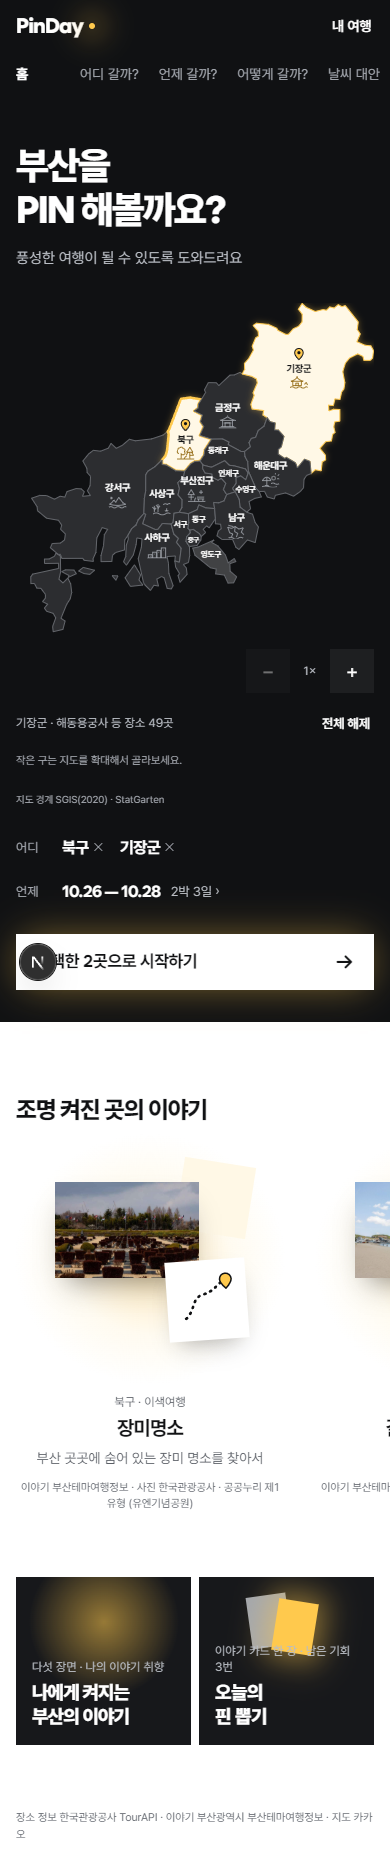
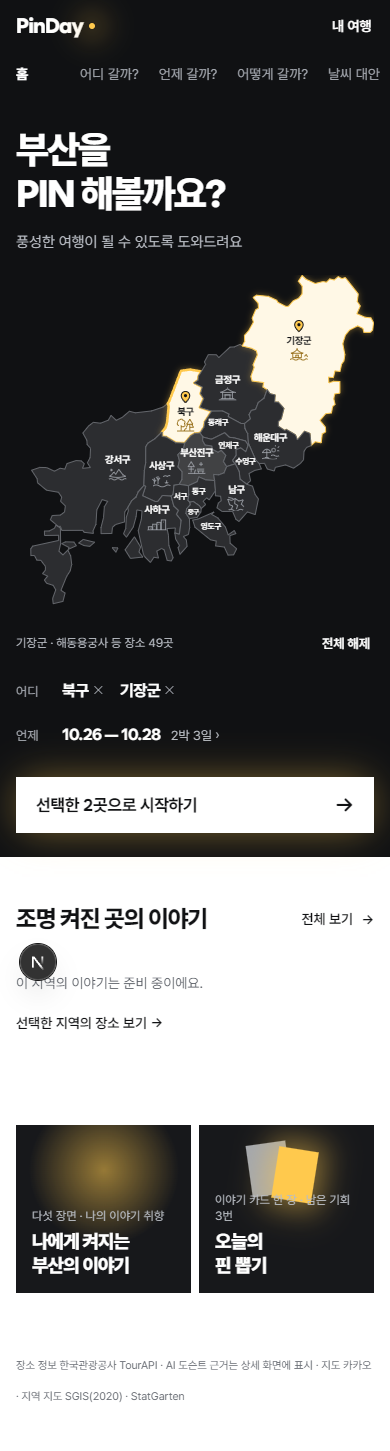
feat(home): 확대 제거와 홈 압축 및 도슨트 이야기 연결

diff --git a/src/app/_home/BusanMap.tsx b/src/app/_home/BusanMap.tsx
@@ -12,15 +12,13 @@ type Props = { selected: string[]; counts: Record<string, number>; onToggle: (re
 export function BusanMap({ selected, counts, onToggle, onClear }: Props) {
   const [light, setLight] = useState<{ x: number; y: number } | null>(null);
   const [hovered, setHovered] = useState<MapRegion | null>(null);
-  const [zoom, setZoom] = useState(1);
   const [pinDrops, setPinDrops] = useState<Record<string, number>>({});
   const pinSequence = useRef(0);
   const lightId = useId();
-  const viewport = useRef<HTMLDivElement>(null);
   const follow = (e: PointerEvent<HTMLDivElement>) => {
     const box = e.currentTarget.getBoundingClientRect();
-    setLight({ x: (e.clientX - box.left + e.currentTarget.scrollLeft) / (box.width * zoom) * MAP_WIDTH,
-      y: (e.clientY - box.top + e.currentTarget.scrollTop) / (box.height * zoom) * MAP_HEIGHT });
+    setLight({ x: (e.clientX - box.left) / box.width * MAP_WIDTH,
+      y: (e.clientY - box.top) / box.height * MAP_HEIGHT });
   };
   const toggle = (region: MapRegion) => {
     if ((counts[region.region] ?? 0) === 0) return;
@@ -31,27 +29,16 @@ export function BusanMap({ selected, counts, onToggle, onClear }: Props) {
     onToggle(region.region);
     setHovered(region);
   };
-  const changeZoom = (next: number) => {
-    const box = viewport.current;
-    if (!box) return;
-    const x = (box.scrollLeft + box.clientWidth / 2) / zoom;
-    const y = (box.scrollTop + box.clientHeight / 2) / zoom;
-    setZoom(next);
-    requestAnimationFrame(() => {
-      box.scrollLeft = x * next - box.clientWidth / 2;
-      box.scrollTop = y * next - box.clientHeight / 2;
-    });
-  };
   const status = hovered
     ? `${hovered.name} · ${hovered.spot} 등 장소 ${counts[hovered.region] ?? 0}곳`
     : selected.length > 0 ? `조명 켜진 곳 ${selected.length}` : "구를 눌러 조명을 켜보세요";
 
   return (
     <div role="group" aria-label="부산 구·군 지도. 여러 곳을 고를 수 있어요" className="flex min-w-0 flex-col gap-2">
-      <div ref={viewport} onPointerMove={follow} onPointerDown={follow}
-        onPointerLeave={() => { setLight(null); setHovered(null); }} className="pd-map" data-zoom={zoom}
+      <div onPointerMove={follow} onPointerDown={follow}
+        onPointerLeave={() => { setLight(null); setHovered(null); }} className="pd-map"
         >
-        <svg role="group" aria-label="지도에서 구·군 선택" className="pd-map-svg" viewBox={`0 0 ${MAP_WIDTH} ${MAP_HEIGHT}`} style={{ width: `${zoom * 100}%`, height: `${zoom * 100}%` }}>
+        <svg role="group" aria-label="지도에서 구·군 선택" className="pd-map-svg" viewBox={`0 0 ${MAP_WIDTH} ${MAP_HEIGHT}`}>
           <defs>
             <radialGradient id={lightId} gradientUnits="userSpaceOnUse" cx={light?.x ?? 0} cy={light?.y ?? 0} r="180">
               <stop offset="0%" stopColor="var(--color-light)" stopOpacity=".72" />
@@ -96,17 +83,10 @@ export function BusanMap({ selected, counts, onToggle, onClear }: Props) {
           })}
         </svg>
       </div>
-      <div className="flex items-center justify-end gap-2">
-        <button type="button" onClick={() => changeZoom(Math.max(1, zoom - 1))} disabled={zoom === 1} aria-label="지도 축소" className="flex min-h-tap min-w-tap items-center justify-center bg-room-cell text-xl text-on-room disabled:opacity-40">−</button>
-        <span aria-live="polite" className="w-6 text-center text-xs text-on-room-muted">{zoom}×</span>
-        <button type="button" onClick={() => changeZoom(Math.min(4, zoom + 1))} disabled={zoom === 4} aria-label="지도 확대" className="flex min-h-tap min-w-tap items-center justify-center bg-room-cell text-xl text-on-room disabled:opacity-40">+</button>
-      </div>
       <div className="flex min-h-tap items-center justify-between gap-3">
         <p aria-live="polite" className="text-xs text-on-room-muted lg:text-[13px]">{status}</p>
         {selected.length > 0 && <button type="button" onClick={onClear} className="flex min-h-tap shrink-0 items-center px-1 text-[13px] font-semibold text-on-room">전체 해제</button>}
       </div>
-      <p className="text-[11px] text-on-room-subtle">작은 구는 지도를 확대해서 골라보세요.</p>
-      <a href="https://github.com/swcho/korea-maps" target="_blank" rel="noreferrer" className="inline-flex min-h-tap w-fit items-center text-[10px] text-on-room-subtle">지도 경계 SGIS(2020) · StatGarten</a>
     </div>
   );
 }

diff --git a/src/app/_home/HomeView.tsx b/src/app/_home/HomeView.tsx
@@ -39,11 +39,11 @@ export function HomeView({ regionCounts, weekly, storiesByRegion, pinPlaces }: P
   return (
     <main className="flex flex-1 flex-col">
       <div className={`overflow-x-clip transition-colors duration-500 ${selected.length > 0 ? "bg-room-dim" : "bg-room"}`}>
-        <div className="mx-auto max-w-page px-gutter pb-8 lg:box-content lg:px-gutter-wide lg:pb-22">
+        <div className="mx-auto max-w-page px-gutter pb-6 lg:box-content lg:px-gutter-wide lg:pb-10">
           <SiteHeader tone="room" />
           {/* 휴대폰: 첫 문구 → 지도 → 어디·언제 / 데스크톱: 왼쪽 첫 문구·어디·언제, 오른쪽 지도 */}
-          <div className="flex flex-col lg:grid lg:grid-cols-[minmax(0,1fr)_minmax(0,1.35fr)] lg:grid-rows-[auto_1fr] lg:items-start lg:gap-x-16 lg:pt-18">
-            <div className="pt-12 lg:col-start-1 lg:row-start-1 lg:pt-0">
+          <div className="flex flex-col lg:grid lg:grid-cols-[minmax(0,1fr)_minmax(0,1.35fr)] lg:grid-rows-[auto_1fr] lg:items-start lg:gap-x-16 lg:pt-10">
+            <div className="pt-8 lg:col-start-1 lg:row-start-1 lg:pt-0">
               <h1 className="font-display text-[38px] leading-[1.16] font-extrabold tracking-[-0.05em] whitespace-pre-line text-on-room lg:text-[68px] lg:leading-[1.1] lg:tracking-[-0.055em]">
                 {"부산을\nPIN 해볼까요?"}
               </h1>
@@ -51,10 +51,10 @@ export function HomeView({ regionCounts, weekly, storiesByRegion, pinPlaces }: P
                 풍성한 여행이 될 수 있도록 도와드려요
               </p>
             </div>
-            <div className="pt-8 lg:col-start-2 lg:row-span-2 lg:row-start-1 lg:pt-0">
+            <div className="pt-5 lg:col-start-2 lg:row-span-2 lg:row-start-1 lg:pt-0">
               <BusanMap selected={selected} counts={regionCounts} onToggle={toggleRegion} onClear={() => tripActions.setRegions([])} />
             </div>
-            <div className="pt-1 lg:col-start-1 lg:row-start-2 lg:pt-16">
+            <div className="pt-1 lg:col-start-1 lg:row-start-2 lg:pt-10">
               <TripConditions trip={trip} saved={saved} onRemoveRegion={removeRegion} />
             </div>
           </div>
@@ -62,7 +62,7 @@ export function HomeView({ regionCounts, weekly, storiesByRegion, pinPlaces }: P
       </div>
 
       <div className="mx-auto w-full max-w-page lg:box-content lg:px-gutter-wide">
-        <div className="pt-18 lg:pt-28">
+        <div className="pt-10 lg:pt-16">
           <StoryShelf heading={storyHeading} stories={stories} />
         </div>
 
@@ -86,7 +86,8 @@ export function HomeView({ regionCounts, weekly, storiesByRegion, pinPlaces }: P
 
         <footer className="px-gutter pt-16 pb-8 lg:px-0 lg:pt-24 lg:pb-10">
           <p className="text-[11px] leading-relaxed text-ink-subtle lg:text-xs">
-            장소 정보 한국관광공사 TourAPI · 이야기 부산광역시 부산테마여행정보 · 지도 카카오
+            장소 정보 한국관광공사 TourAPI · AI 도슨트 근거는 상세 화면에 표시 · 지도 카카오 · 지역 지도{" "}
+            <a href="https://github.com/swcho/korea-maps" target="_blank" rel="noreferrer" className="inline-flex min-h-tap items-center">SGIS(2020) · StatGarten</a>
           </p>
         </footer>
       </div>

diff --git a/src/app/_home/StoryShelf.tsx b/src/app/_home/StoryShelf.tsx
@@ -1,4 +1,5 @@
 import Image from "next/image";
+import Link from "next/link";
 import type { StoryCard } from "@/lib/server/home";
 import { regionName } from "./regions";
 
@@ -7,27 +8,38 @@ import { regionName } from "./regions";
 export function StoryShelf({ heading, stories }: { heading: string; stories: StoryCard[] }) {
   return (
     <section aria-labelledby="story-heading" className="flex flex-col gap-2 lg:gap-6">
-      <h2 id="story-heading" className="px-gutter font-display text-2xl font-extrabold tracking-[-0.045em] lg:px-0 lg:text-[34px]">
-        {heading}
-      </h2>
+      <div className="flex items-center justify-between gap-3 px-gutter lg:px-0">
+        <h2 id="story-heading" className="font-display text-2xl font-extrabold tracking-[-0.045em] lg:text-[34px]">{heading}</h2>
+        <Link href="/docent" className="inline-flex min-h-tap shrink-0 items-center gap-2 text-sm font-semibold">전체 보기 <span aria-hidden="true">→</span></Link>
+      </div>
+      {stories.length === 0 ? (
+        <div className="px-gutter py-6 lg:px-0">
+          <p className="text-sm text-ink-muted">이 지역의 이야기는 준비 중이에요.</p>
+          <Link href="/explore" className="mt-2 inline-flex min-h-tap items-center text-sm font-semibold">선택한 지역의 장소 보기 →</Link>
+        </div>
+      ) : (
       <ul className="no-scrollbar flex snap-x snap-mandatory overflow-x-auto pb-2 lg:grid lg:grid-cols-[repeat(auto-fill,minmax(300px,1fr))] lg:gap-8 lg:overflow-visible">
         {stories.map((story) => (
           <li key={story.id} className="flex w-75 shrink-0 snap-center flex-col items-center gap-2.5 text-center lg:w-auto">
+            <Link href={story.href} prefetch={false} aria-label={`${story.title} 이야기 읽고 듣기`} data-home-story="" className="group flex w-full flex-col items-center gap-2.5 focus-visible:outline-offset-[-2px]">
             <StoryArt story={story} />
             <div className="flex max-w-85 flex-col items-center gap-1.5 px-5">
               <span className="text-xs text-ink-muted lg:text-[13px]">
                 {regionName(story.region)} · {story.kind}
               </span>
-              <h3 className="font-display text-xl leading-tight font-bold tracking-[-0.04em] lg:text-[22px]">{story.title}</h3>
+              <h3 className="font-display text-xl leading-tight font-bold tracking-[-0.04em] group-hover:underline group-focus-visible:underline lg:text-[22px]">{story.title}</h3>
               <p className="line-clamp-2 text-sm leading-relaxed text-ink-muted lg:text-[15px]">{story.subtitle}</p>
               <p className="mt-1 text-[11px] text-ink-subtle">
-                이야기 부산테마여행정보
+                AI 도슨트
                 {story.photo && ` · ${story.photo.credit} (${story.photo.placeName})`}
               </p>
+              <span className="inline-flex min-h-tap items-center text-sm font-semibold">이야기 읽고 듣기 <span aria-hidden="true" className="ml-2">→</span></span>
             </div>
+            </Link>
           </li>
         ))}
       </ul>
+      )}
     </section>
   );
 }

diff --git a/src/lib/server/home.ts b/src/lib/server/home.ts
@@ -1,7 +1,7 @@
 import "server-only";
 
 import placesData from "../../../data/places/places.json";
-import storiesData from "../../../data/stories/stories.json";
+import { listDocents, type Docent } from "./docent";
 
 export type StoryCard = {
   id: string;
@@ -9,6 +9,7 @@ export type StoryCard = {
   subtitle: string;
   region: string;
   kind: string;
+  href: string;
   /** 연결된 장소의 TourAPI 사진. 없으면 null */
   photo: { url: string; credit: string; placeName: string; noDerivs: boolean } | null;
 };
@@ -22,21 +23,20 @@ const LICENSE_LABEL: Record<string, string> = {
 /** 구를 골랐을 때 보여줄 그 구의 이야기 수 */
 const STORIES_PER_REGION = 4;
 
-type RawStory = (typeof storiesData.stories)[number];
-
-function toCard(story: RawStory): StoryCard {
-  const { photo } = story;
+function toCard(story: Docent): StoryCard {
+  const photo = story.image;
   return {
-    id: story.id,
-    title: story.title,
-    subtitle: story.subtitle,
+    id: story.placeId,
+    title: story.placeName,
+    subtitle: story.draft.summary[0]?.text ?? "",
     region: story.region,
-    kind: story.kind,
+    kind: story.category.split(" > ").at(-1) ?? story.category,
+    href: `/docent/${story.placeId}`,
     photo: photo
       ? {
           url: photo.url,
           credit: ["사진 한국관광공사", LICENSE_LABEL[photo.license]].filter(Boolean).join(" · "),
-          placeName: photo.placeName,
+          placeName: story.placeName,
           noDerivs: photo.license === "Type3",
         }
       : null,
@@ -48,15 +48,20 @@ export function homeData() {
   const regionCounts: Record<string, number> = {};
   for (const place of placesData) regionCounts[place.region] = (regionCounts[place.region] ?? 0) + 1;
 
-  const byId = new Map(storiesData.stories.map((story) => [story.id, story]));
-  const weekly = storiesData.weekly.flatMap((id) => {
-    const story = byId.get(id);
-    return story ? [toCard(story)] : [];
-  });
+  // 카드와 열리는 해설이 같은 장소가 되도록 공개 승인된 도슨트만 쓴다.
+  const stories = listDocents().map(toCard);
+  const weekly: StoryCard[] = [];
+  const usedRegions = new Set<string>();
+  for (const story of stories) {
+    if (weekly.length === 4) break;
+    if (!story.photo || usedRegions.has(story.region)) continue;
+    weekly.push(story);
+    usedRegions.add(story.region);
+  }
 
   // 구마다 사진 있는 이야기를 먼저, 그다음 원본 순서
   const storiesByRegion: Record<string, StoryCard[]> = {};
-  for (const story of storiesData.stories) (storiesByRegion[story.region] ??= []).push(toCard(story));
+  for (const story of stories) (storiesByRegion[story.region] ??= []).push(story);
   for (const region of Object.keys(storiesByRegion)) {
     const list = storiesByRegion[region];
     storiesByRegion[region] = [...list.filter((s) => s.photo), ...list.filter((s) => !s.photo)].slice(0, STORIES_PER_REGION);

diff --git a/src/lib/server/home.test.ts b/src/lib/server/home.test.ts
@@ -1,6 +1,6 @@
 import { describe, expect, it, vi } from "vitest";
 import places from "../../../data/places/places.json";
-import rules from "../../../data/docent/evidence-rules.json";
+import { readdirSync, readFileSync } from "node:fs";
 
 vi.mock("server-only", () => ({}));
 
@@ -30,9 +30,13 @@ describe("홈 데이터", () => {
     }
   });
 
-  it("격리된 이야기는 나오지 않는다", () => {
-    const shown = [...data.weekly, ...Object.values(data.storiesByRegion).flat()].map((s) => s.id);
-    for (const q of rules.quarantines) expect(shown).not.toContain(q.sourceId);
+  it("홈 카드는 공개 승인된 해설만 쓰고 같은 장소의 도슨트로 연결된다", () => {
+    const approved = new Set(readdirSync("data/docent/drafts").map(file => JSON.parse(readFileSync(`data/docent/drafts/${file}`, "utf8"))).filter(d => d.publishable === true && d.humanReview?.status === "approved" && !d.checks?.issues?.length).map(d => d.placeId));
+    for (const story of [...data.weekly, ...Object.values(data.storiesByRegion).flat()]) {
+      expect(approved.has(story.id)).toBe(true);
+      expect(story.href).toBe(`/docent/${story.id}`);
+      expect(story.subtitle).not.toBe("");
+    }
   });
 
   it("사진에는 출처와 공공누리 유형이 붙고, 3유형은 변경금지로 표시된다", () => {

diff --git a/src/app/_home/busanMap.css b/src/app/_home/busanMap.css
@@ -1,15 +1,12 @@
 .pd-map {
   position: relative;
   width: 100%;
-  max-width: 40rem;
+  max-width: 32rem;
   aspect-ratio: 800 / 757;
   margin-inline: auto;
-  overflow: auto;
-  overscroll-behavior: contain;
-  scrollbar-width: thin;
-  scrollbar-color: var(--color-on-room-subtle) var(--color-room);
+  overflow: visible;
 }
-.pd-map-svg { display: block; max-width: none; }
+.pd-map-svg { display: block; width: 100%; height: 100%; }
 .pd-map-region {
   fill: color-mix(in srgb, var(--color-on-room) 9%, var(--color-room));
   stroke: color-mix(in srgb, var(--color-on-room-subtle) 55%, var(--color-room));

diff --git a/docs/HANDOFF.md b/docs/HANDOFF.md
@@ -1,16 +1,19 @@
 # HANDOFF — 지금 상태
 
-## 홈 실제 경계 지도·핀 낙하·노란 조명 (2026-10-25, 최신)
+## 홈 높이 축소·이야기 카드 도슨트 연결 (2026-10-25, 최신)
 - 현재 브랜치 **`feat/home-map-illustrations`**, 기준 `origin/main` = `bd455d3`(배포 인계 문서 병합 이후). 사용자가 홈의 남은 명소 그림 완성과 지도 일러스트 수정을 요청했다.
 - **사용자 최종 방향: 첨부 참고처럼 부산의 실제 해안선·구·군 경계를 살린 지도.** 임의의 다각형으로 만든 퍼즐형 윤곽은 사용자가 거부했다. 작은 구를 키우려고 윤곽·상대 크기를 변형하지 않는다. 이전 블록형 지도 결정보다 이 지시가 우선한다.
 - `swcho/korea-maps`의 SGIS **2020년** 부산 경계 SVG에서 16개 path를 그대로 추출해 사용했다. 바다·섬·구별 크기 유지. 출처·고정 커밋·MIT 원문은 `data/maps/README.md`, `data/maps/LICENSE`, 경계는 `busan-boundaries.json`. 첨부 상업 지도 이미지는 복사하지 않았다.
 - 명소 상징 선화는 16개 준비됐지만, 후속 사용자 지시로 작은 7개 구는 **확대해도 아이콘을 빼고 이름만** 남겼다. 화면에는 넓은 9개 구의 그림만 표시한다. 실제 건축물의 정밀 묘사가 아닌 상징 선화다.
-- 후속 사용자 지시로 **이름 선택 드롭다운 제거**. 실제 SVG 경계에서 터치/클릭·Tab/Enter/Space로 직접 선택/해제한다. 화면 읽기에 구 이름·장소 수·선택 상태를 제공한다. 작은 구는 1~4배 확대·스크롤 이동으로 보완하며 원래 경계 자체가 44px이라고 주장하지 않는다. 확대/축소·전체 해제·출처 조작은 44px 이상이다.
+- 후속 사용자 지시로 **이름 선택 드롭다운과 지도 확대/축소 모두 제거**. 실제 SVG 경계에서 터치/클릭·Tab/Enter/Space로 직접 선택/해제한다. 지도 내부 스크롤도 없으며 페이지는 지도 위에서도 정상 스크롤한다. 원래 경계의 작은 구 자체가 44px이라고 주장하지 않는다. 전체 해제·이야기 링크 등 일반 조작은 44px 이상이다.
 - 후속 피드백 반영: 클릭 시 브라우저가 그리던 흰 사각 포커스 테두리를 제거했다. 키보드 포커스는 실제 구 경계의 노란 선으로 표시한다. 핀은 이름 옆의 작은 표시 대신 **구 이름 바로 위 가운데**, 이전의 두 배 크기로 표시한다. 0.62초 동안 수직으로 툭 떨어져 작게 튕기며, 발끝에서 0.9초 두 겹 물결이 퍼진다. 해제 시 사라지고 재선택 시 다시 낙하. 새로고침의 저장된 핀은 재생하지 않는다. 움직임 줄이기는 즉시 표시·물결 숨김.
-- 마우스/터치를 따라오는 노란 조명을 강화했다. SVG 좌표의 방사형 노란빛을 지도 표면과 주변에 함께 표시하며 확대·스크롤 위치를 반영한다. 기존 지역 저장·태그·시작 버튼·이야기 연동 유지. 공통 저장소·토큰·공통 컴포넌트 수정 없음.
-- 검증: **테스트 150개·빌드 통과**, 린트 오류 0·기존 취향 음성 경고 1건. Chrome 390/1440에서 실제 16개 경계의 터치/클릭·Enter/Space·Tab, 드롭다운 없음, 작은 구 아이콘 없음, 핀 중간 낙하 위치/착지, 움직임 줄이기, 저장된 핀 낙하 재생 안 함, 조명 이동·확대·저장 유지·가로 넘침 없음 확인. 경로/날씨 요청 0건.
-- 재현 `node scripts/qa-home-map.mjs`. 화면 `docs/design/home-map/map-{default,detail,selected,all,focus,zoom,drop,light,ripple}-{390,1440}.png`. 최신 검증에는 실제 16개 구 클릭 후 흰 outline 없음·핀의 이름 위 중앙 배치·핀마다 두 겹 물결도 포함한다. 구현은 `src/app/_home/` 안에 한정.
-- 남은 것: 사용자 최종 모양 검토, PR 병합 후 배포 확인. 배포 사이트에는 아직 이번 변경을 반영하지 않았다. 홈 첫 문구·이번 주 이야기 선정·이야기 연결·메뉴 정리는 이번 범위 밖이다.
+- 마우스/터치를 따라오는 노란 조명을 강화했다. SVG 좌표의 방사형 노란빛을 지도 표면과 주변에 함께 표시한다. 지역 저장·태그·시작 버튼 유지. 공통 저장소·토큰·공통 컴포넌트 수정 없음.
+- 홈 높이 축소: 확대 조작·안내를 빼고 지도 출처는 기존 홈 푸터로 이동, PC 지도 최대 폭과 상단/이야기 앞 여백을 줄였다. 390px에서 상단 높이 1,022→857px, 이야기 시작 1,094→903px. 1440px에서 상단 1,022→692px, 이야기 시작 1,134→756px(아무 지역도 선택하지 않은 상태 기준).
+- 사용자가 ‘이번 주 부산 이야기’가 클릭되지 않는 이유를 물었고 ‘다른 메뉴와 이어지도록’ 지시했다. **홈 이야기 카드를 승인된 AI 도슨트로 교체**했다. 사진·제목·설명 전체 클릭 → 같은 장소 `/docent/{id}`, ‘전체 보기’ → `/docent`. 자동 음성 재생 없음. 기존 부산시 원문 카드 목록은 홈에서 쓰지 않으며 `data/stories` 자료는 삭제하지 않았다.
+- 홈 데이터 `src/lib/server/home.ts`: 공개 승인·자동 검사 통과한 도슨트 6곳 중 사진이 있고 서로 다른 구의 4곳을 임시로 노출. 지역 선택 시 그 구의 승인 해설만 표시. 해설이 없으면 준비 중 안내 + 선택 지역 `/explore` 링크. 미검수 글을 채워 넣거나 지역을 자동 확장하지 않는다. ‘이번 주’ 수동 선정 기준은 여전히 미정.
+- 검증: **테스트 150개·빌드 통과**, 린트 오류 0·기존 취향 음성 경고 1건. Chrome 390/1440에서 기존 16개 경계 조작·핀/물결·조명·저장 검사 통과. 확대/드롭다운 없음·지도 내부 스크롤 없음·페이지 가로 넘침 없음 확인. 홈 4개 카드의 실제 상세 응답/장소 일치, 카드 클릭 → 도슨트 상세 → 목록 이동, 해설 없는 지역의 탐색 링크 확인. 경로/날씨 요청 0건.
+- 재현 `node scripts/qa-home-map.mjs`. 화면 `docs/design/home-map/map-{default,detail,selected,all,focus,drop,light,ripple}-{390,1440}.png`, `home-stories-{390,1440}.png`. `map-zoom-*`는 확대 기능이 있던 과거 기록이다. 구현은 홈 화면 폴더와 홈 전용 서버 데이터/테스트에 한정.
+- 남은 것: 사용자 최종 검토, PR 병합 후 배포 확인. 배포 사이트에는 아직 이번 변경을 반영하지 않았다. 홈 첫 문구·이번 주 수동 선정 기준·공통 메뉴 정리는 이번 범위 밖이다.
 
 ## Vercel 첫 배포·지도 표시 확인 (2026-10-25)
 - 사용자가 Vercel 첫 배포를 완료했다. 배포 주소: **https://pinday-five.vercel.app/**. 에이전트가 홈 `/`와 `/explore`의 HTTP 200 응답을 확인했다.
@@ -34,7 +37,7 @@
 
 ## 다음 에이전트에게
 - 먼저 이 문서 맨 위와 `AGENTS.md`, `docs/DECISIONS.md`를 읽고 실제 git 상태/원격 병합 여부를 확인한다. 현재는 홈 지도 작업 `feat/home-map-illustrations`이며 과거 절의 브랜치는 당시 기록이다. 핀 뽑기 PR #19와 배포 인계 문서는 이미 main에 병합됐다.
-- 사용자는 메인부터 다듬기로 했고, 이번 범위는 실제 부산 윤곽·넓은 구의 명소 그림·핀 낙하·강해진 노란 조명이다. **임의의 블록·퍼즐 형태로 돌아가거나 이름 드롭다운을 다시 넣지 않는다.** 작은 구 아이콘은 생략한다. 다음 범위는 사용자와 정하며 콘텐츠 확대·첫 문구·공통 파일 변경을 자동 시작하지 않는다.
+- 현재 메인은 실제 부산 윤곽·넓은 구의 그림·핀 낙하/물결·노란 조명·도슨트 카드 연결까지 반영. **블록·퍼즐 형태·이름 드롭다운·지도 확대를 다시 넣지 않는다.** 작은 구 아이콘은 생략한다. 홈 이야기 카드는 원문 대신 공개 승인 도슨트를 사용하며 실제 상세로 연결한다. 다음 범위는 사용자와 정한다.
 - 사용자 취향: 단순히 작동하는 화면보다 직접 고르는 재미와 도슨트/핀 콘셉트를 원함. 의미 없는 여백·긴 세로 목록·홈과 같은 시작 화면을 피한다. 홈을 늘리는 인라인 랜덤 결과로 되돌리지 않는다.
 - 배포 주소 **https://pinday-five.vercel.app/**, 로컬 주소 `http://localhost:3000/`. 지도는 사용자가 배포 환경에서 표시를 확인했지만 나머지 전체 흐름은 배포 환경에서 아직 미검증이다. 핀 뽑기 최신 캡처는 `cards-*`, 이전 접두사 없는 사진은 과거 버전이다. 자세한 검증/재현법 `docs/RANDOM_QA.md`, `scripts/qa-pin.mjs` 참고.
 - 알려진 한계: 승인 해설 6곳이므로 일부 지역 0/1장, 새로고침 시 뽑기 3회 초기화(페이지 기준), 기존 취향 음성 effect 린트 경고 1건. 한국어 음성은 실제 기기 추가 확인 필요.
@@ -64,7 +67,7 @@
 - 테스트 140개·린트·빌드 통과. 최신 QA/API 기록에 실응답 확인 및 사용자 제공 한도 근거 반영 완료.
 - 이후 취향 테스트를 구현했다(맨 위 최신 항목 참고). 랜덤 뽑기·도슨트 해설 늘리기·자동차는 후속 후보이며 길찾기 두 수단의 현재 앱 동작은 확인됐다.
 
-마지막 업데이트: 2026-10-25 · 작성: Codex (홈 실제 경계·작은 구 아이콘/드롭다운 제거·핀 낙하·노란 조명 강화)
+마지막 업데이트: 2026-10-25 · 작성: Codex (홈 확대 제거·높이 축소·이야기 카드 도슨트 연결)
 
 ## 최신 작업 — PC 경로 A안
 - PC 구현 브랜치는 `feat/route-desktop-a`였고 PR #16으로 main에 병합됐다. 현재 작업 브랜치는 위 실제 경로 확인 항목 참고. 사용자가 A안 채택. 시안 브랜치 `design/route-desktop-ux`에서 분기했다.
@@ -102,7 +105,7 @@
 
 | 항목 | 현재 상태 / 코드 / 확인 문서 |
 | --- | --- |
-| 홈 `/` | 시안 C '어두운 전시실', 실제 경계 16개 구·군 지도·넓은 9개 구 선화·확대·핀 낙하·노란 조명·여행 기간·이야기 카드. 드롭다운 없음. `src/app/_home/`. `docs/HOME_QA.md` |
+| 홈 `/` | 어두운 전시실·실제 경계 지도·9개 구 선화·핀/물결·노란 조명·여행 기간·승인 도슨트 카드/목록 연결. 확대·드롭다운 없음. `src/app/_home/`, `src/lib/server/home.ts`. `docs/HOME_QA.md` |
 | 어디 갈까? `/explore` | 검색·분류·취향순·카카오 지도·묶음 핀·후보함. '날짜에 배치하기' → `/schedule`. `docs/EXPLORE_QA.md` |
 | 언제 갈까? `/schedule` | 날짜 탭(강수 표시)·그날 일정(끌기·키보드 순서)·근처 추천·날짜 없는 곳(가까운 순)·그날 지도(번호·점선). `src/app/schedule/`. `docs/SCHEDULE_QA.md` |
 | 날씨 대안 `/weather` | 요약 한 줄·날짜 탭·시간별 비 막대·장소마다 한 줄 목록·[바꾸기] 고르는 창(실내 3곳·그대로 갈게요)·되돌리기. `src/app/weather/`. `docs/WEATHER_QA.md`, 사진 `docs/design/weather-ux/` |
@@ -153,7 +156,7 @@
 - 실제 휴대폰에서 날씨 대안 고르는 창 확인.
 - 기존 화면(`/schedule`·`/explore`)도 같은 기준("쭉 나열" 여부)으로 다시 볼지.
 - 헤더 메뉴 정리는 메인 메뉴를 다 만든 뒤에(사용자). `/route`는 이제 구현돼 404가 아니다. 공통 `SiteHeader` 수정이라 그때도 먼저 묻기.
-- 홈 이야기 카드에서 승인된 도슨트로 연결할지(지금은 듣기·전체 보기 숨김 상태).
+- 홈 이야기 카드는 승인 도슨트 상세·목록 연결 완료. 사용자 최종 화면 검토와 병합 후 배포 확인 필요.
 
 ## 디자인·구현 주의 (계속 유효)
 

diff --git a/docs/HOME_QA.md b/docs/HOME_QA.md
@@ -1,5 +1,7 @@
 # 홈 동작 확인 — 2026-10-24
 
+> 최신 변경(2026-10-25): 지도 확대/축소·지도 내부 스크롤을 제거하고 홈 높이를 줄였다. 홈 이야기 카드도 승인 도슨트로 교체해 사진/제목 클릭 → 상세, 전체 보기 → 도슨트 목록으로 연결한다. 아래 과거 확대·원문 카드 기록보다 맨 아래 최신 검증이 우선한다.
+
 > 이후 변경(2026-10-25, 최신): 실제 부산 경계를 유지하고, 사용자 후속 지시로 드롭다운·작은 7개 구 아이콘을 제거했다. 넓은 9개 구만 그림 표시, 경계 직접 키보드 선택·핀 낙하·노란 조명 강화. 최신 확인은 맨 아래 후속 검증 참고.
 
 > 이후 변경(랜덤 뽑기): ‘오늘의 핀 뽑기’가 전용 카드 선택 모달로 연결된다. 홈 높이·닫기 후 스크롤/포커스를 유지한다. 선택 지역의 승인 이야기·3회 제한·후보 담기·0/1곳 안내·390/1440 확인(`docs/RANDOM_QA.md`).
@@ -117,3 +119,13 @@ Chrome 개발 서버와 배포용 서버에서 390px·1440px 확인:
 - 16개 선택 핀 모두 가로 중심이 이름 중심과 같고 핀 아래쪽이 이름 위에 위치하는지 확인. 핀을 두 배로 키우고 수직 낙하·작은 튕김, 두 겹 물결로 조정했다.
 - 낙하 중간 프레임·최종 착지 위치 검사 통과. 물결을 재생 중간에 멈춘 화면 `map-ripple-{390,1440}.png` 추가. 전체 해제·재선택·저장·확대·움직임 줄이기·노란 조명 기존 검사도 통과. 경로/날씨 요청 0건.
 - 테스트 150개·린트 오류 0(기존 경고 1건)·빌드 통과.
+
+### 최신 검증 — 확대 제거·홈 높이 축소·이야기 메뉴 연결
+
+- 확대/축소와 안내 제거, 지도 내부 스크롤 없음. 지역 지도 출처는 홈 푸터로 이동. PC 지도 최대 폭 640→512px, 상단·이야기 앞 여백 축소.
+- 별도 Chrome 프로필의 기본 상태에서 390px 상단 높이 1,022→857px·이야기 시작 1,094→903px, 1440px 상단 1,022→692px·이야기 시작 1,134→756px 확인.
+- `node scripts/qa-home-map.mjs`: 390/1440에서 지도 조작·키보드·핀/물결·조명·저장 유지·가로 넘침 없음 통과. 확대 버튼·드롭다운·지도 내부 스크롤 없음 확인.
+- 홈 4개 카드 모두 `/docent/{같은 장소 id}` 응답 200·제목 일치, 실제 카드 클릭 → 상세의 같은 장소 제목 → 모든 이야기 목록 이동 확인. ‘전체 보기’는 `/docent`. 승인된 도슨트 6곳 중 사진·다른 구 기준의 임시 4곳을 사용한다.
+- 북구/기장군처럼 승인 해설이 없는 지역은 안내와 `/explore` 링크를 표시하며 지역은 유지한다. 미검수 해설 공개·자동 음성 재생·외부 원문 이동을 추가하지 않았다.
+- 홈 데이터 기존 테스트를 승인 해설/동일 장소 링크 검사로 갱신. 테스트 150개·린트 오류 0(기존 경고 1건)·빌드 통과. 경로/날씨 요청 0건.
+- 최신 캡처 `docs/design/home-map/home-stories-{390,1440}.png` 및 `map-*` 갱신. `map-zoom-*`는 확대가 있던 과거 기록이다.

diff --git a/docs/DECISIONS.md b/docs/DECISIONS.md
@@ -173,3 +173,8 @@
 - 2026-10-25 후속 사용자 지시(위 이름 선택·작은 구 그림 결정보다 우선): 구 크기 때문에 그림을 넣기 어려우면 생략하고, **드롭다운은 제거**한다. 좁은 7개 구는 확대해도 이름만 표시하고 넓은 9개 구만 아이콘 표시. 경계 자체를 Tab/Enter/Space로 선택할 수 있게 하며 작은 구는 확대해서 고른다.
 - 2026-10-25 사용자 요청: 클릭하면 핀이 떨어지는 모션, 마우스를 따라다니는 조명의 색감 강화. 새 선택에만 낙하·짧은 튕김·착지 파문을 적용하며 저장된 핀을 열 때는 재생하지 않는다. 움직임 줄이기에서는 즉시 표시. 노란 조명을 SVG 좌표로 지도 표면과 주변에 함께 비추며 확대·스크롤에서도 누른 위치를 따른다.
 - 2026-10-25 후속 사용자 요청: 클릭 때 나타나는 흰 사각 테두리를 없애고, 핀을 **구 이름 바로 위 가운데**로 옮긴다. 핀은 이전의 두 배 크기, 0.62초 수직 낙하·작은 튕김 후 발끝에서 두 겹 물결이 퍼지는 방식. 키보드 포커스는 구 경계의 노란 선으로 유지한다.
+- 2026-10-25 사용자 후속 지시(기존 확대 유지 결정보다 우선): **지도 확대/축소 기능 제거**, 지도 안쪽 스크롤도 제거. 홈의 긴 세로 흐름을 줄인다. 지도 출처는 기존 홈 푸터로 이동하고 PC 지도 크기·상단/이야기 앞 여백을 줄인다. 실제 경계·핀/물결·노란 조명은 유지.
+
+## 홈 이야기 카드 메뉴 연결 (기존 부산시 원문 카드 결정보다 우선)
+- 2026-10-25 사용자는 원문/해설 구분 대신 ‘다른 메뉴와 이어질 수 있도록’ 요청했다. 홈 카드의 사진·제목·설명을 누르면 **같은 장소의 AI 도슨트 상세**, ‘전체 보기’는 AI 도슨트 목록으로 연결한다. 듣기는 상세 화면에서 사용자가 눌러 시작한다.
+- 2026-10-25 이를 위해 홈 카드 데이터는 공개 승인·자동 검사 통과한 도슨트만 사용한다. 초기 ‘이번 주’는 사진이 있고 서로 다른 구의 최대 4곳을 고른 임시 목록이다. 지역 선택 시 그 지역의 공개 해설만 표시하며, 없으면 준비 중 안내와 선택 지역의 장소 탐색 링크를 제공한다. 승인 해설이 없는 원문 카드를 억지로 다른 장소 해설에 연결하지 않는다. 기존 `data/stories` 자료는 보존한다.

diff --git a/docs/design/README.md b/docs/design/README.md
@@ -1,6 +1,7 @@
 # 디자인 탐색 기록
 
 ## 홈 실제 경계 지도 (2026-10-25, 최신)
+- 최신 피드백: 확대 버튼·지도 내부 스크롤 제거, PC 지도 크기와 홈 상단/이야기 앞 여백 축소. 홈 이야기 카드는 승인 도슨트로 교체하여 카드 전체 → 같은 장소 상세, 전체 보기 → 도슨트 목록. 해설 없는 지역은 준비 중 안내와 장소 탐색 연결. `home-stories-*`와 최신 `map-*` 참고, `map-zoom-*`는 과거 기록이다.
 - 추가 피드백: 클릭의 흰 사각 테두리를 제거. 핀을 구 이름 위 가운데로 옮기고 크기를 두 배로 키웠다. 수직으로 툭 떨어진 뒤 두 겹 물결이 퍼지는 모션. 최신 캡처 `map-ripple-*`, 기존 캡처 갱신.
 - 후속 사용자 지시: 작은 구에 아이콘을 억지로 넣지 않고 이름만 남긴다(현재 넓은 9개 구만 그림). 드롭다운은 제거. 경계 직접 키보드 선택·확대 유지. 클릭 시 핀 낙하·튕김·착지 파문 추가, 마우스/터치를 따라오는 노란 조명을 지도 표면까지 강화했다. `map-drop-*`, `map-light-*`와 기존 캡처가 최신 화면이다. 아래 이름 선택·확대 시 작은 구 그림 기록보다 이번 지시가 우선한다.
 - 사용자가 남은 명소 그림을 요청한 뒤, 지도 윤곽은 첨부 참고처럼 실제 부산 해안선·행정구역을 유지하길 원한다고 명확히 했다. 임의의 퍼즐형 윤곽은 거부. 아래 과거 블록형 방향보다 이번 지시가 우선한다.
